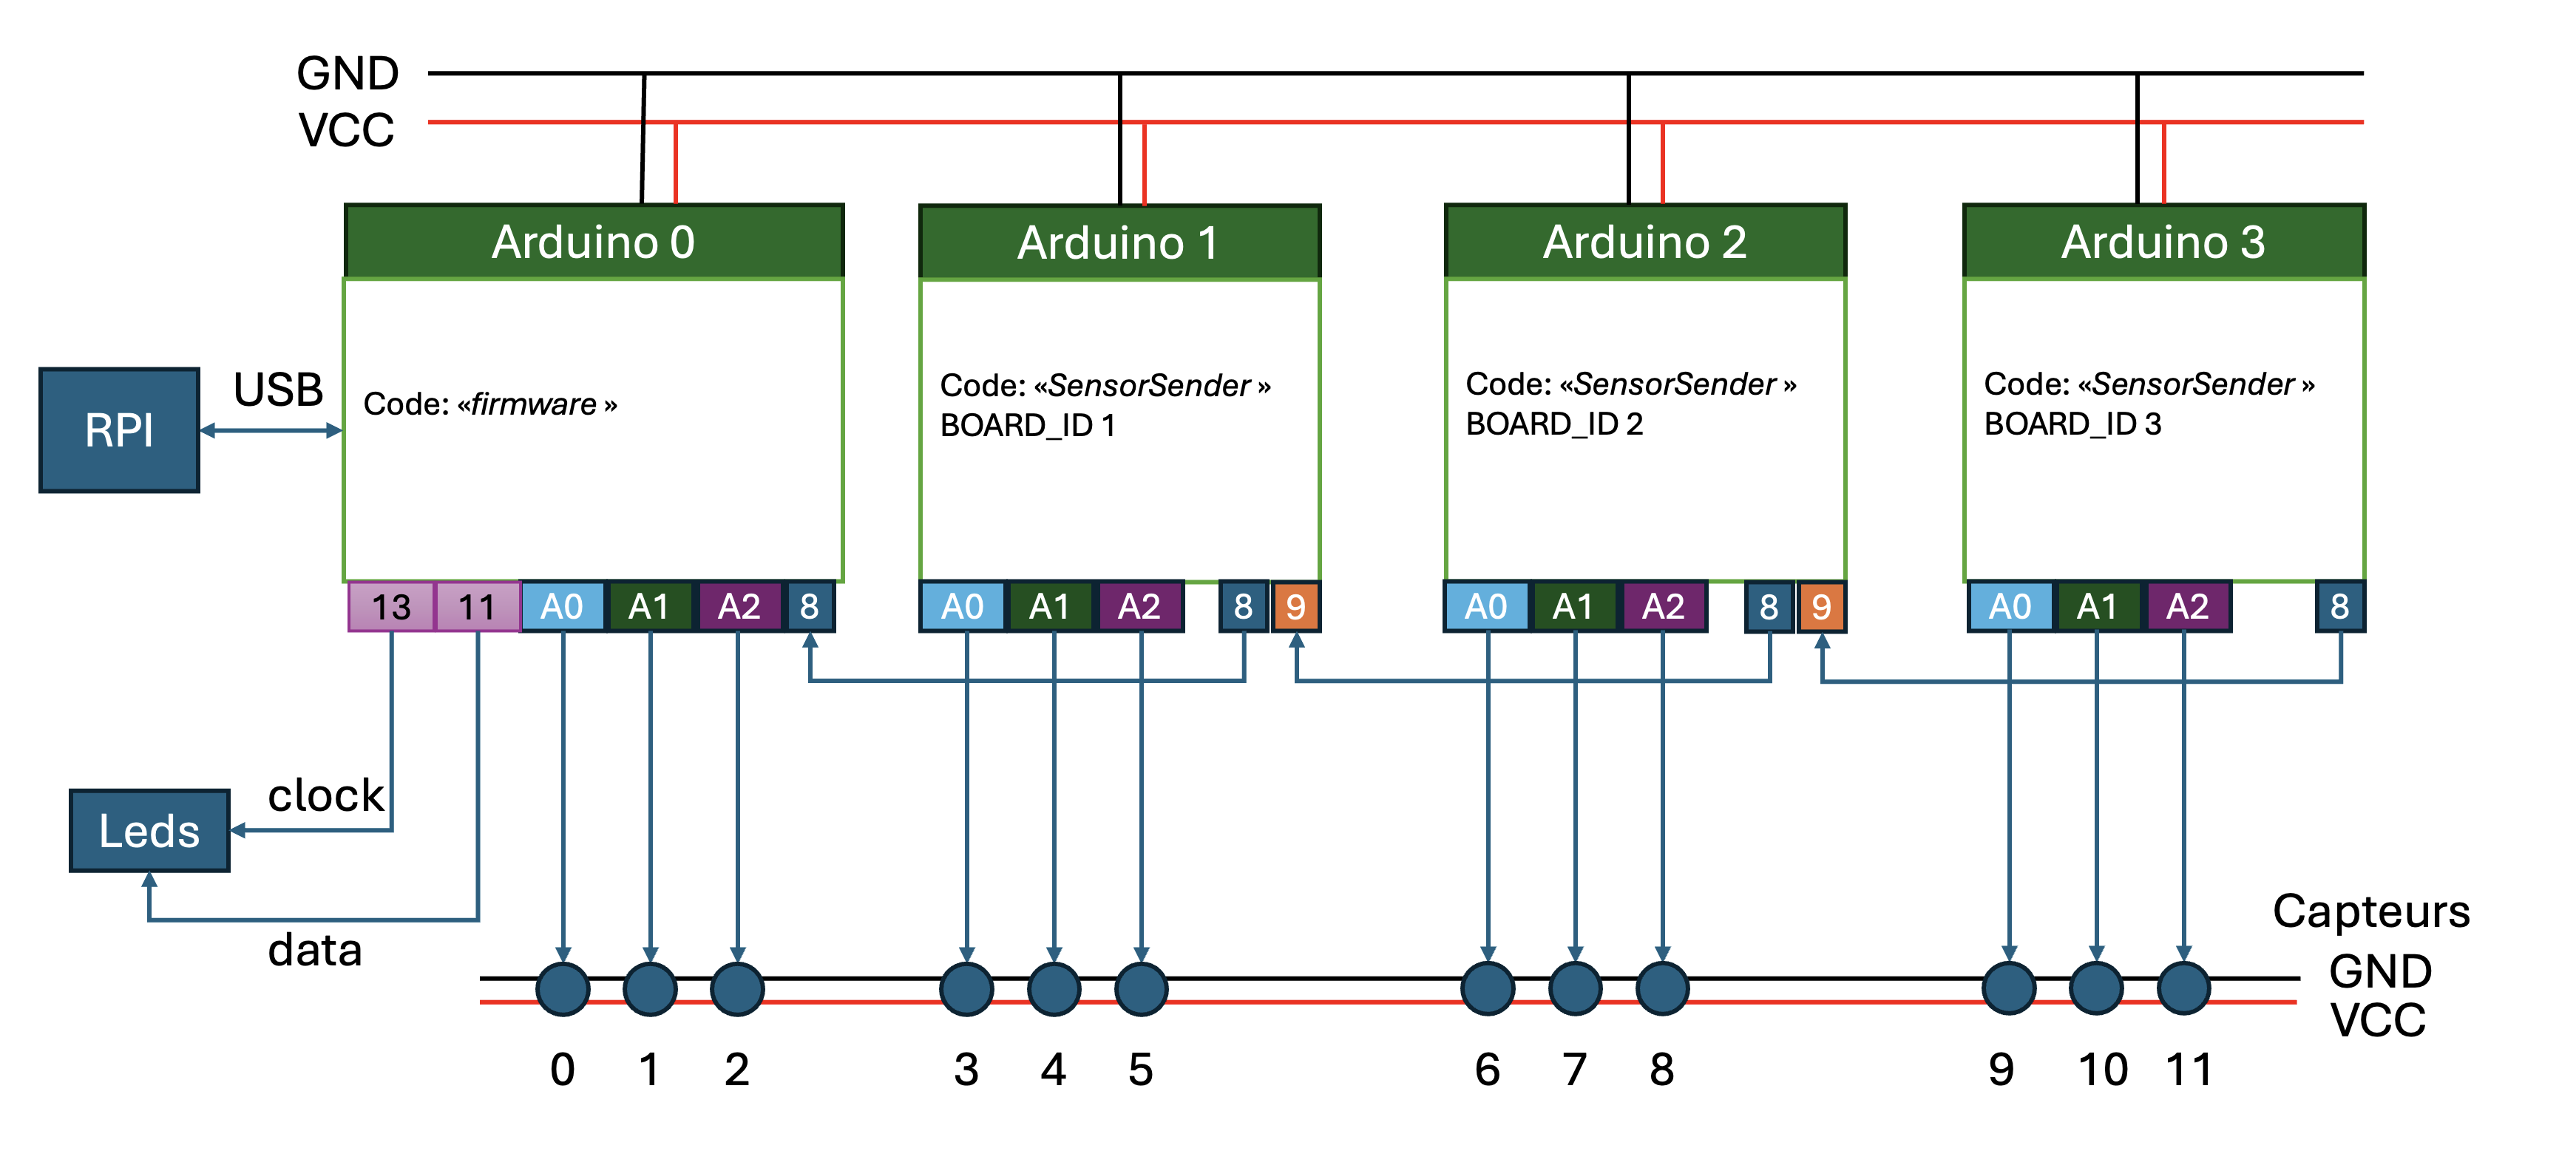
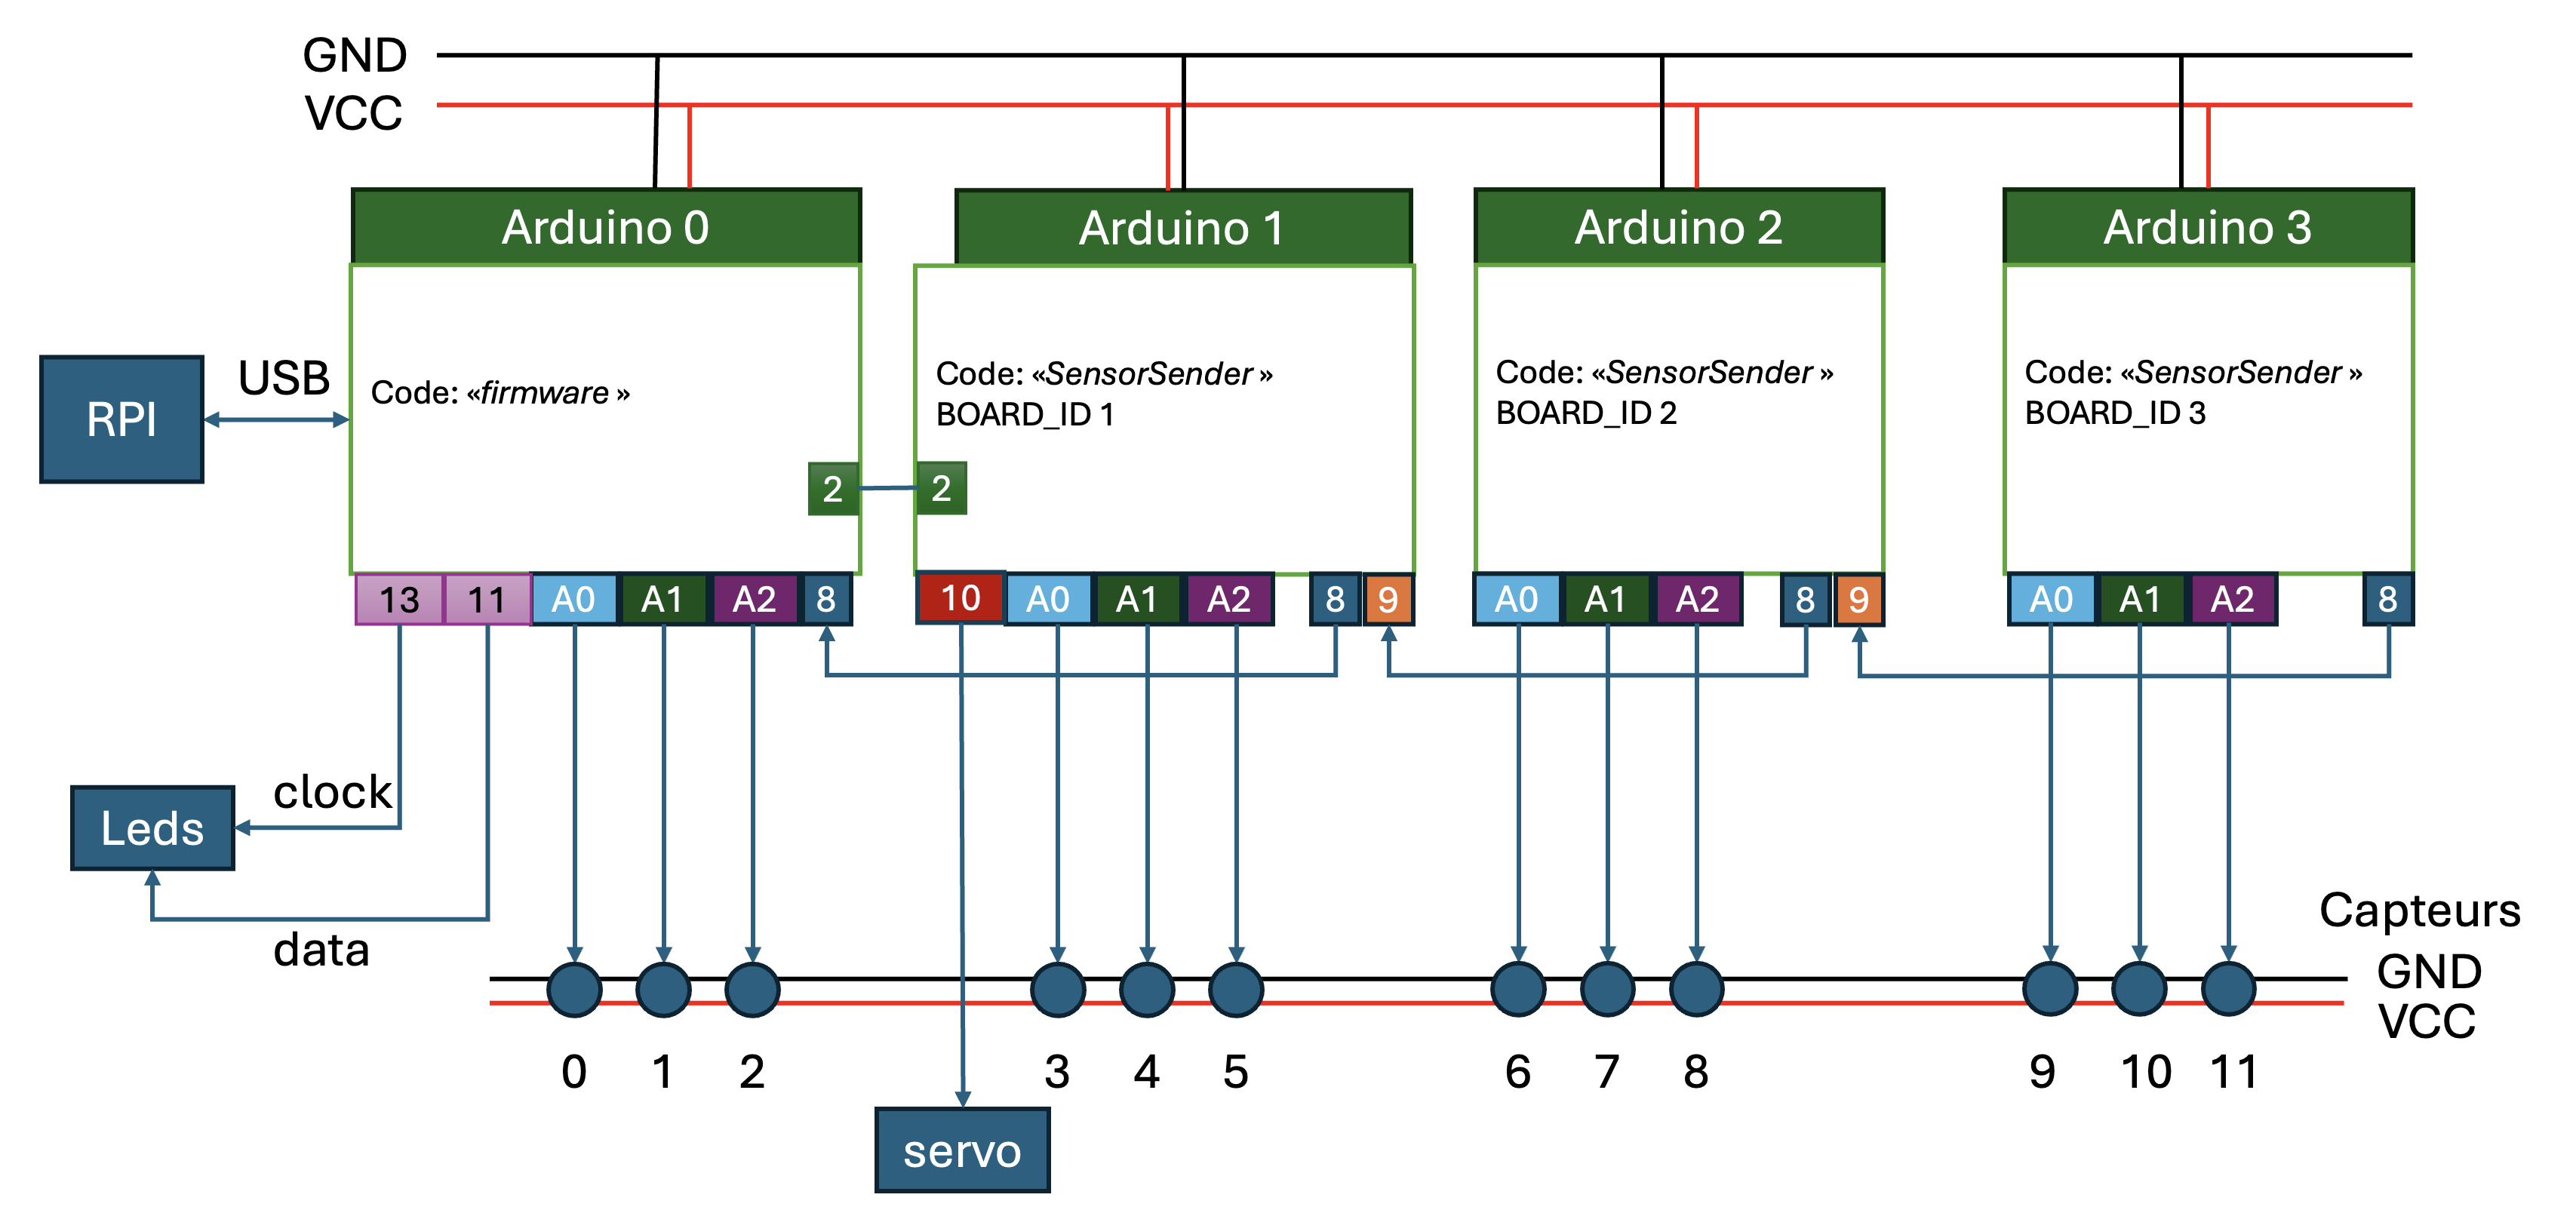
doc: update

Changed region(s): [[0.0, 0.0311, 0.9936, 0.9949], [0.621, 0.9016, 0.652, 0.9327], [0.5589, 0.9016, 0.5899, 0.9327]]

diff --git a/doc/README.md b/doc/README.md
@@ -24,9 +24,8 @@ sudo dd if=/dev/rdisk9 of=/Users/manueldeneu/Documents/dev/SolarDevice/Backups/b
 ```
 
 ### Restauration d'une carte SD
-Utiliser l'application [Raspberry-Pi Imager](https://www.raspberrypi.com/software) et 
 
-
+Utiliser l'application [Raspberry-Pi Imager](https://www.raspberrypi.com/software) et
 
 ## Configuration
 